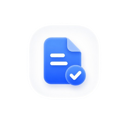
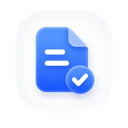
放大首页图标并统一列表操作按钮

Changed region(s): [[0.25, 0.1875, 0.75, 0.7812]]

diff --git a/tenant-admin.html b/tenant-admin.html
@@ -47,10 +47,10 @@ th{background:#f4f9fe;color:#68839d;border-color:#dfebf5}td{border-color:#edf4f9
 body{background:#f8fbff;background-image:none}body:before{display:none}aside{background:#fff;color:#17335c;border-right:1px solid #e3ebf4;box-shadow:none}.brand{height:78px;padding:0 26px;background:#fff;border-color:#edf2f7;color:#102d55;font-size:20px}.brand:before{width:28px;height:32px;border-radius:4px;background:linear-gradient(145deg,#1478ff,#3e93ff);box-shadow:none}.brand small,.group{display:none}.nav{height:48px;margin:8px 11px;padding:0 15px;border-radius:7px;color:#18345d;font-size:14px}.nav i{width:28px;margin-right:7px;color:#173967;font-size:19px}.nav:hover{background:#f2f7ff;color:#126df4}.nav.active{color:#fff;background:linear-gradient(110deg,#1168ee,#1979ff);box-shadow:0 8px 20px rgba(18,109,244,.2)}.nav.active i{color:#fff}
 header{left:var(--side);height:64px;padding:0 24px;background:#fff;border-color:#e7eef6;backdrop-filter:none;color:#18345d}.top-actions{gap:20px;color:#0f2f59}.top-actions>.ri-search-line,.top-actions>.ri-fullscreen-line{display:inline-block}.top-avatar{border-radius:50%;background:#eaf2ff;color:#1a6de7}.tenant{background:transparent;color:#18345d;margin:0;padding:0}.view-tabs{display:flex;top:64px;height:38px;padding:0 16px;gap:5px;background:#fff;border-bottom:1px solid #e5edf6}.view-tab{padding:5px 11px;border-radius:3px;border-color:#e2eaf3;color:#647b94;background:#fff}.view-tab.active{color:#126df4;border-color:#bcd7fa;background:#edf5ff}main{margin-left:var(--side);padding:120px 18px 30px;background:#f8fbff}
 .hero-overview{min-height:490px;margin-bottom:14px;border-radius:9px;border-color:#dce9f7;background:#edf6ff;box-shadow:none}.hero-scene{inset:0;width:100%;height:100%;object-position:center center}.hero-overview:after{background:linear-gradient(90deg,#f0f7ff 0%,#f0f7ff 28%,rgba(240,247,255,.94) 38%,rgba(240,247,255,.3) 59%,rgba(240,247,255,0) 75%)}.hero-content{padding:62px 46px 28px;width:57%}.hero-greeting h1{font-size:34px;color:#0b2b5e}.hero-greeting p{font-size:15px;color:#627b99}.hero-metrics{margin-top:68px;gap:10px}.hero-metric{min-height:170px;padding:18px;background:rgba(255,255,255,.84);border-color:rgba(225,235,246,.94);border-radius:9px;box-shadow:0 8px 26px rgba(75,124,176,.05)}.hero-metric i{width:35px;height:35px;font-size:19px}.hero-metric label{font-size:13px;color:#435e7c}.hero-metric b{font-size:30px;margin:9px 0 7px;color:#092b60}.hero-metric small{font-size:12px}.hero-meta{left:18px;right:18px;bottom:0;height:45px;display:flex;align-items:center;border-top:1px solid rgba(213,227,241,.8)}
-.home-lists{display:grid;grid-template-columns:1fr 1fr;gap:14px}.home-panel{margin:0;border-radius:9px;box-shadow:none}.home-panel .panel-head{height:47px;color:#112d52}.home-panel table{table-layout:fixed}.home-panel th{background:#f5f8fc;color:#536a85;padding:11px 9px}.home-panel td{padding:12px 9px;white-space:nowrap;overflow:hidden;text-overflow:ellipsis}.home-panel .btn.text{color:#126df4;min-height:28px}.home-panel .pager{display:flex;align-items:center;justify-content:space-between;padding:13px 14px}.pager-pages{display:flex;align-items:center;gap:6px}.pager-pages span{min-width:27px;height:27px;display:grid;place-items:center;border:1px solid #dce6f1;border-radius:4px;color:#6e8198}.pager-pages .current{background:#126df4;border-color:#126df4;color:#fff}
+.home-lists{display:grid;grid-template-columns:1fr 1fr;gap:14px}.home-panel{margin:0;border-radius:9px;box-shadow:none}.home-panel .panel-head{height:47px;color:#112d52}.home-panel table{table-layout:fixed}.home-panel th{background:#f5f8fc;color:#536a85;padding:11px 9px}.home-panel td{padding:12px 9px;white-space:nowrap;overflow:hidden;text-overflow:ellipsis}.home-panel .pager{display:flex;align-items:center;justify-content:space-between;padding:13px 14px}.pager-pages{display:flex;align-items:center;gap:6px}.pager-pages span{min-width:27px;height:27px;display:grid;place-items:center;border:1px solid #dce6f1;border-radius:4px;color:#6e8198}.pager-pages .current{background:#126df4;border-color:#126df4;color:#fff}
 /* 首页视觉比例校正：保留若依框架，只调整品牌、插画与统计卡片 */
 .brand{padding:0 16px;font-size:18px;white-space:nowrap;flex-wrap:nowrap;overflow:hidden;text-overflow:ellipsis}.brand:before{flex:0 0 28px}
-.hero-overview{min-height:440px}.hero-scene{inset:0 0 0 auto;width:68%;height:100%;object-fit:contain;object-position:right center}.hero-overview:after{background:linear-gradient(90deg,#f0f7ff 0%,#f0f7ff 31%,rgba(240,247,255,.94) 40%,rgba(240,247,255,.28) 61%,rgba(240,247,255,0) 78%)}.hero-content{padding:52px 40px 24px;width:59%}.hero-greeting h1{font-size:32px}.hero-metrics{margin-top:58px;gap:9px}.hero-metric{min-height:138px;padding:14px 15px}.hero-metric .metric-image{display:block;width:36px;height:36px;object-fit:contain;margin-bottom:5px}.hero-metric b{margin:7px 0 5px;font-family:-apple-system,BlinkMacSystemFont,"Segoe UI","Microsoft YaHei",Arial,sans-serif;font-size:27px;font-weight:600;line-height:1.15;font-variant-numeric:tabular-nums}
+.hero-overview{min-height:440px}.hero-scene{inset:0 0 0 auto;width:68%;height:100%;object-fit:contain;object-position:right center}.hero-overview:after{background:linear-gradient(90deg,#f0f7ff 0%,#f0f7ff 31%,rgba(240,247,255,.94) 40%,rgba(240,247,255,.28) 61%,rgba(240,247,255,0) 78%)}.hero-content{padding:52px 40px 24px;width:59%}.hero-greeting h1{font-size:32px}.hero-metrics{margin-top:58px;gap:9px}.hero-metric{min-height:138px;padding:14px 15px}.hero-metric .metric-image{display:block;width:52px;height:52px;object-fit:contain;margin-bottom:4px}.hero-metric b{margin:7px 0 5px;font-family:-apple-system,BlinkMacSystemFont,"Segoe UI","Microsoft YaHei",Arial,sans-serif;font-size:27px;font-weight:600;line-height:1.15;font-variant-numeric:tabular-nums}
 body,button,input,select,textarea{font-family:-apple-system,BlinkMacSystemFont,"Segoe UI","Microsoft YaHei",Arial,sans-serif}.card b,.metric b{font-family:-apple-system,BlinkMacSystemFont,"Segoe UI","Microsoft YaHei",Arial,sans-serif;font-weight:600;font-variant-numeric:tabular-nums}
 @media(max-width:1180px){.dash-grid{grid-template-columns:1fr}.dashboard-cards{grid-template-columns:repeat(2,1fr)}}
 .config-table input[type="checkbox"]{width:16px;height:16px;accent-color:#126df4}
@@ -71,8 +71,8 @@ table th,table td{white-space:nowrap}table th:first-child,table td:first-child{p
 .tag.enter{color:#05603a;background:#d1fadf;border-color:#32d583}.tag.exit{color:#3538cd;background:#e0e7ff;border-color:#818cf8}
 /* 笔记本首屏与操作可读性校正 */
 .home-lists{align-items:stretch}.home-panel{height:100%;align-self:stretch;display:grid;grid-template-rows:auto 1fr auto}.home-panel table{height:100%}.home-panel th,.home-panel td{padding-top:9px;padding-bottom:9px}.home-panel .pager{min-height:42px}
-.btn,.btn.text{white-space:nowrap}.btn.primary:hover{color:#fff;background:linear-gradient(135deg,#247fe9,#0b5fd7);border-color:#0b5fd7}.btn.text:hover{color:#0b5fc7;background:#eaf3ff;box-shadow:none}
-@media(max-height:900px) and (min-width:1051px){main{padding-top:112px;padding-bottom:18px}.hero-overview{min-height:292px}.hero-content{padding:24px 34px 18px}.hero-greeting h1{font-size:26px}.hero-metrics{margin-top:28px}.hero-metric{min-height:108px;padding:11px 13px}.hero-metric i{width:28px;height:28px;margin-bottom:5px}.hero-metric b{font-size:24px;margin:4px 0 3px}.hero-meta{height:36px}.home-lists{gap:10px}.home-panel .panel-head{height:40px}.home-panel th,.home-panel td{padding-top:7px;padding-bottom:7px}.home-panel .pager{min-height:36px;padding-top:7px;padding-bottom:7px}}
+.btn,.btn.text{white-space:nowrap}.has-actions .btn.text{min-height:32px;padding:0 7px;color:#126df4}.has-actions .btn.text.danger{color:#b5474f}.btn.primary:hover{color:#fff;background:linear-gradient(135deg,#247fe9,#0b5fd7);border-color:#0b5fd7}.btn.text:hover{color:#0b5fc7;background:#eaf3ff;box-shadow:none}
+@media(max-height:900px) and (min-width:1051px){main{padding-top:112px;padding-bottom:18px}.hero-overview{min-height:292px}.hero-content{padding:24px 34px 18px}.hero-greeting h1{font-size:26px}.hero-metrics{margin-top:28px}.hero-metric{min-height:108px;padding:11px 13px}.hero-metric i{width:28px;height:28px;margin-bottom:5px}.hero-metric .metric-image{width:44px;height:44px;margin-bottom:3px}.hero-metric b{font-size:24px;margin:4px 0 3px}.hero-meta{height:36px}.home-lists{gap:10px}.home-panel .panel-head{height:40px}.home-panel th,.home-panel td{padding-top:7px;padding-bottom:7px}.home-panel .pager{min-height:36px;padding-top:7px;padding-bottom:7px}}
 
 
 </style>
